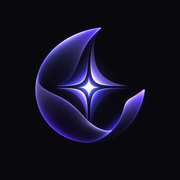
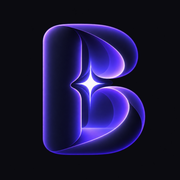
feat(brand): apply new B mark + real hero photography to marketing page
Uses the brand assets provided directly (app icon, hero banners) rather
than the abstract crescent mark and plain-gradient text-only hero that
were there before — the concrete "generic/nothing surprised me" feedback
on the marketing page.

- app/icon.png, apple-icon.png, favicon.ico: regenerated from the new
  512x512 B glyph at each required size (256/180/16+32).
- public/brand/mark.png: same B glyph, used by the shared Logo component
  (systems/layout top-nav + auth shell), so it updates everywhere the
  wordmark appears, not just the marketing page.
- app/(marketing)/page.tsx: hero section now uses the "People. Purpose.
  Proof." banner as a real full-width image instead of a gradient-only
  background. Added a visually-hidden <h1> carrying the real heading
  text, since the previous literal <h1> was removed — the banner's
  baked-in text isn't crawlable or screen-reader accessible on its own.

Verified in the actual running dev server via Playwright screenshot,
not just by reading the diff (screenshot sent to the user). Lint and
tsc clean on the changed file.

Claude-Session: https://claude.ai/code/session_01AntnDA1Qd5VDGgt3Fx96je

diff --git a/app/(marketing)/page.tsx b/app/(marketing)/page.tsx
@@ -1,6 +1,7 @@
 import { siteConfig } from "@/config/site";
 import { Button, Card, CardContent } from "@/systems/design-system";
 import { Calendar, FolderKanban, ShoppingBag, Sparkles, Users, Zap } from "lucide-react";
+import Image from "next/image";
 import Link from "next/link";
 import type { Metadata } from "next";
 
@@ -35,23 +36,27 @@ const pillars = [
 export default function LandingPage() {
   return (
     <>
-      <section className="relative overflow-hidden px-4 py-24 md:px-6 md:py-32">
-        <div
-          className="pointer-events-none absolute inset-0 bg-gradient-to-b from-brand/10 via-transparent to-transparent"
-          aria-hidden
-        />
-        <div className="relative mx-auto max-w-4xl text-center">
+      <section className="relative overflow-hidden">
+        <h1 className="sr-only">
+          BELONG — Different stories, shared humanity. People. Purpose. Proof.
+        </h1>
+        <div className="relative aspect-[2034/773] w-full">
+          <Image
+            src="/marketing/hero-people-purpose-proof.png"
+            alt="BELONG — Different stories. Shared humanity. People. Purpose. Proof. Two profiles formed of glass shards face each other across a glowing star."
+            fill
+            priority
+            sizes="100vw"
+            className="object-cover"
+          />
+        </div>
+        <div className="relative px-4 py-12 text-center md:px-6 md:py-16">
           <p className="text-label text-brand">{siteConfig.tagline}</p>
-          <h1 className="mt-4 text-display text-fg-primary md:text-5xl lg:text-6xl">
-            Build your future.
-            <br />
-            Help build the future of others.
-          </h1>
-          <p className="mx-auto mt-6 max-w-2xl text-lg text-fg-secondary">
+          <p className="mx-auto mt-4 max-w-2xl text-lg text-fg-secondary">
             BELONG helps people connect, collaborate, and create measurable impact through
             communities, projects, and meaningful relationships.
           </p>
-          <div className="mt-10 flex flex-wrap items-center justify-center gap-3">
+          <div className="mt-8 flex flex-wrap items-center justify-center gap-3">
             <Link href="/register">
               <Button size="lg" variant="brand">
                 Join BELONG
